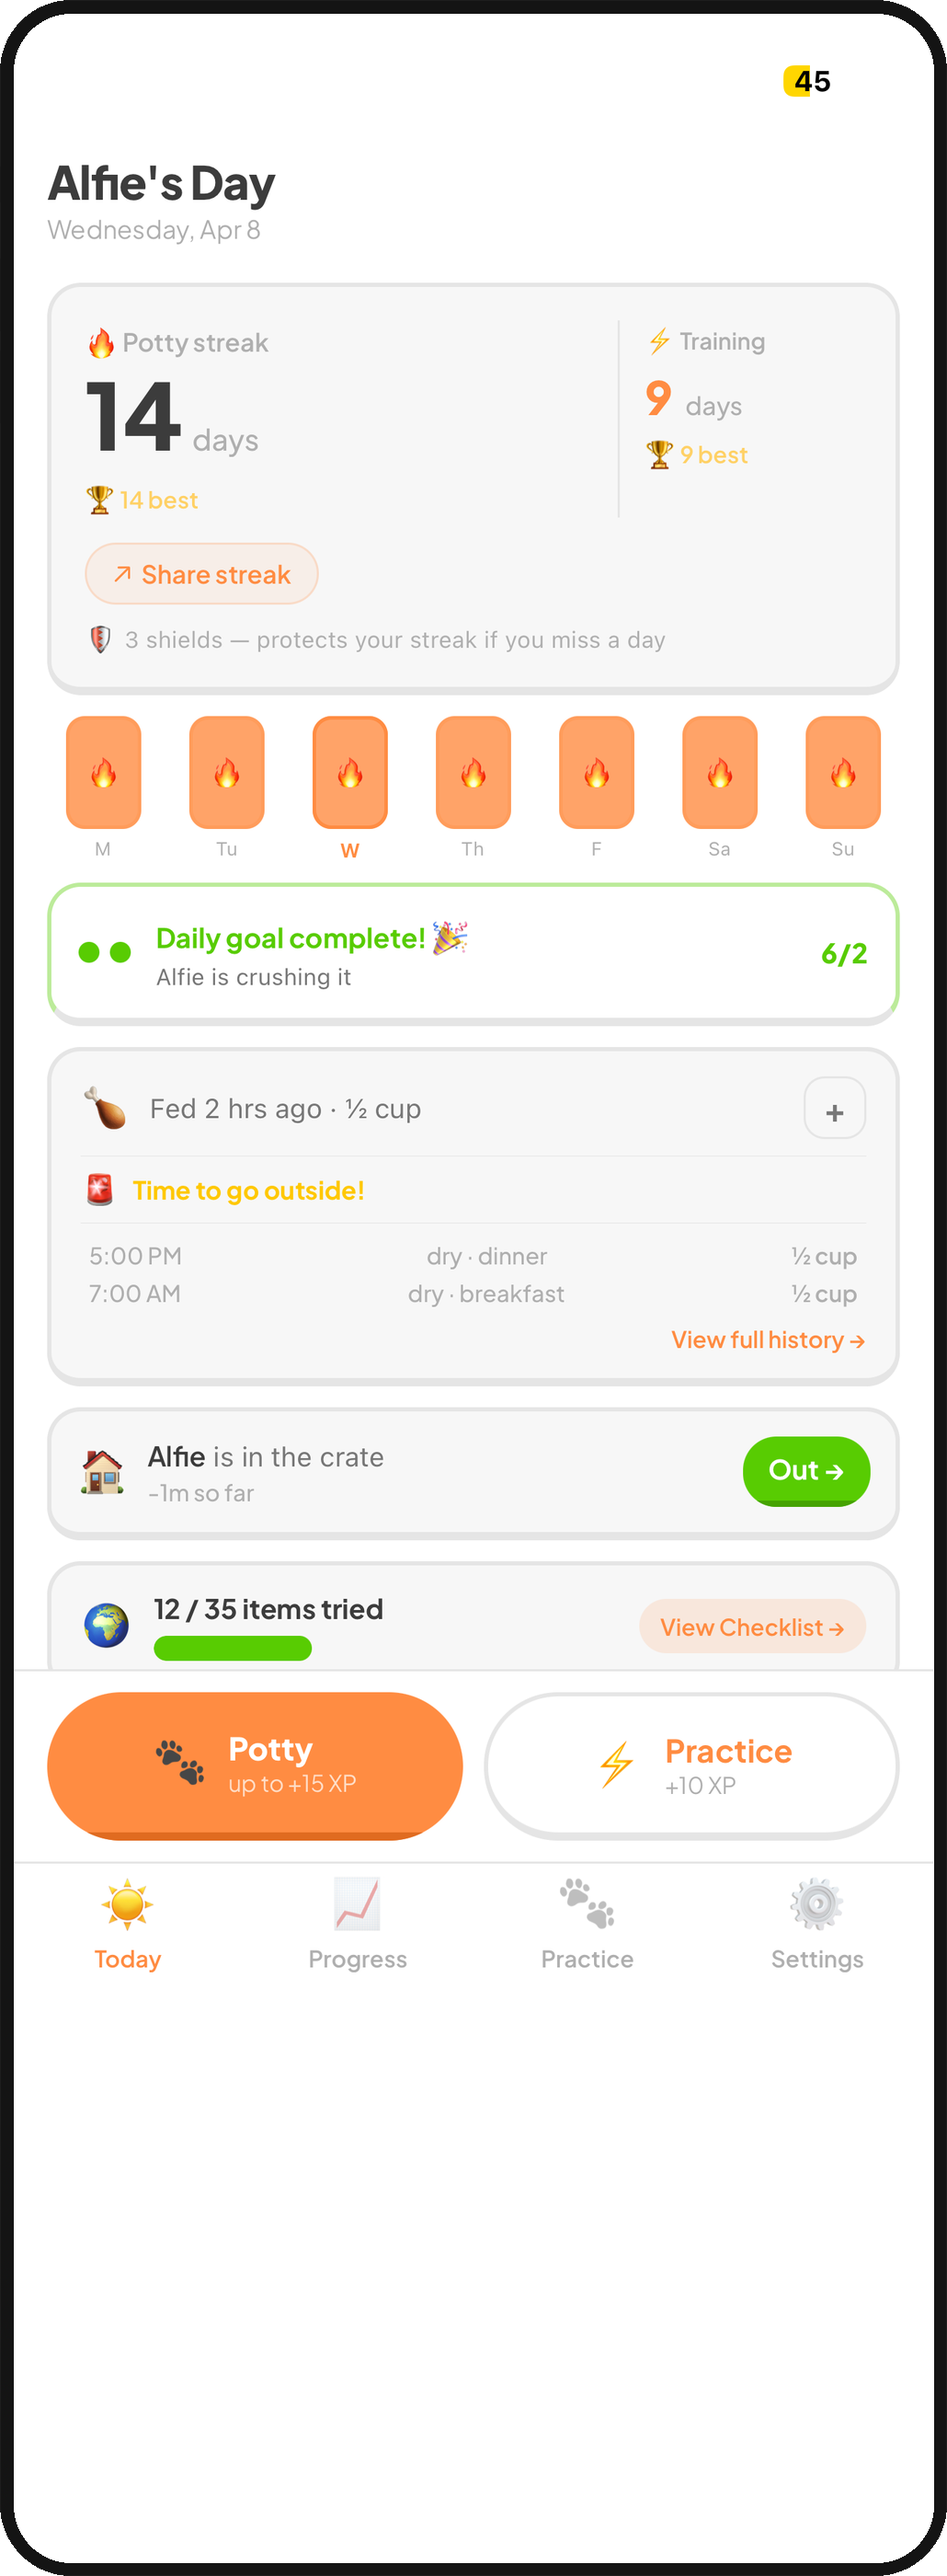
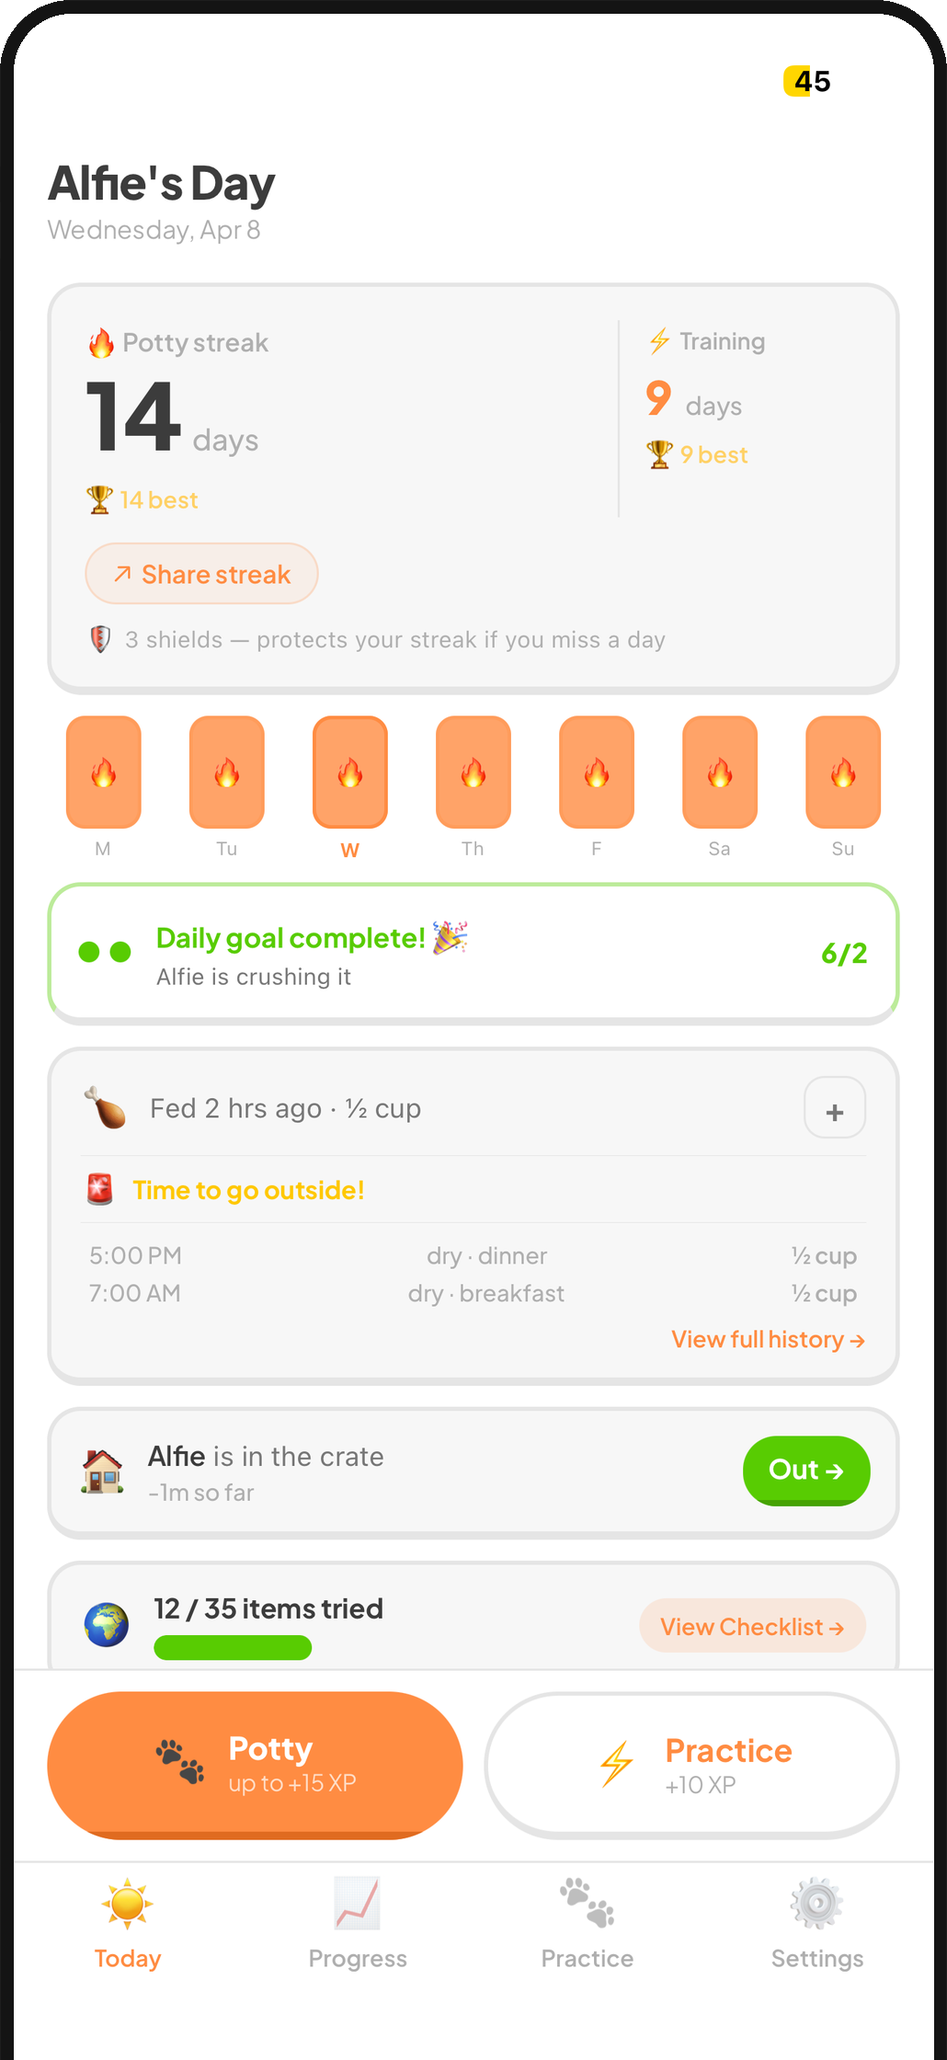
fix: cap phone mockup height to realistic iPhone proportions

diff --git a/index.html b/index.html
@@ -178,6 +178,9 @@
     .phone img {
       width: 100%;
       height: auto;
+      max-height: 380px;
+      object-fit: cover;
+      object-position: top;
       display: block;
     }
 
